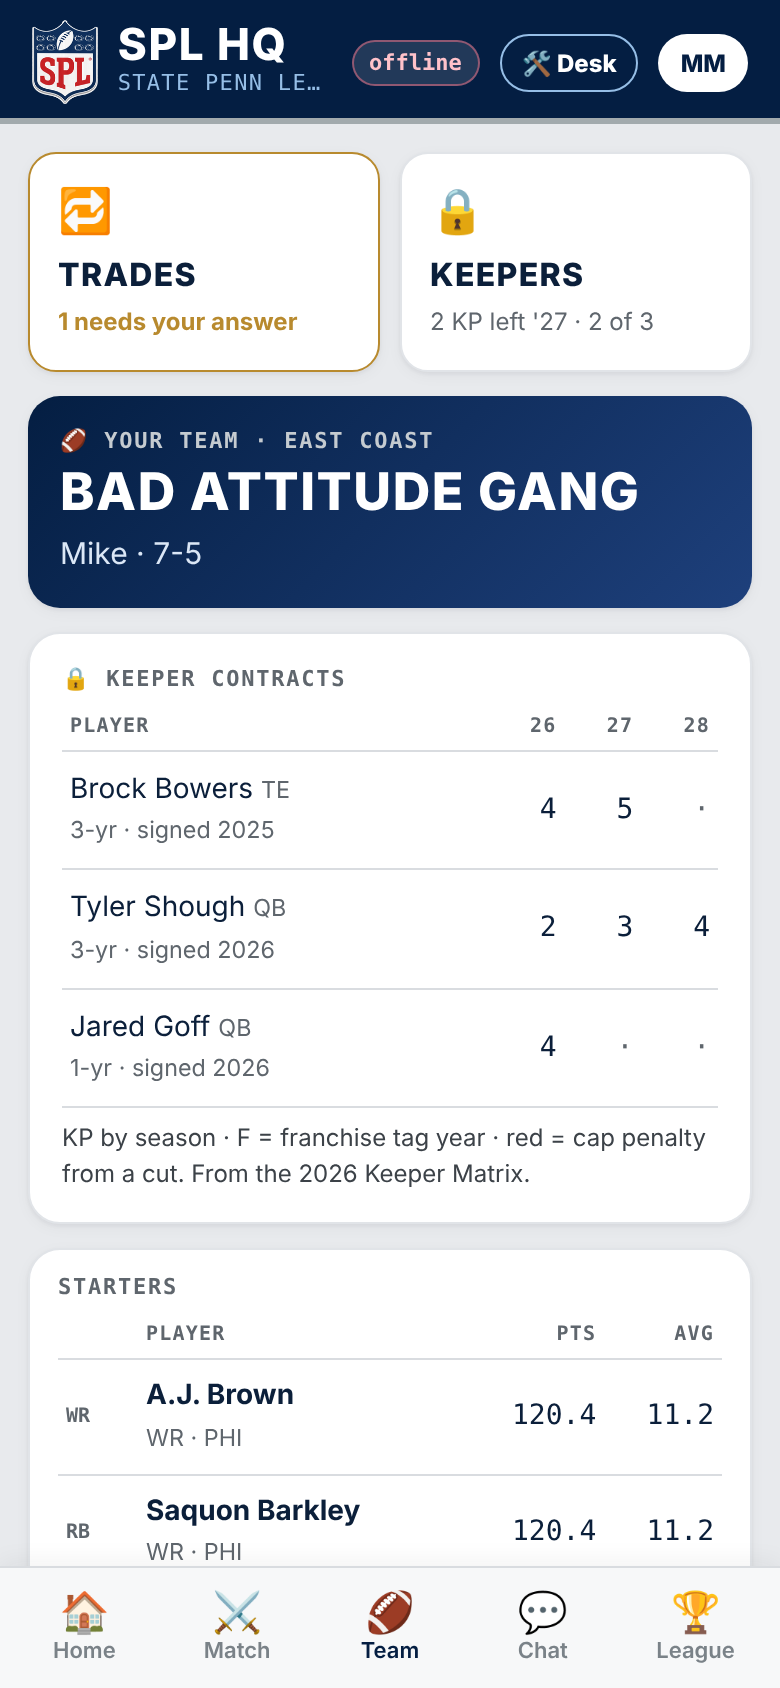
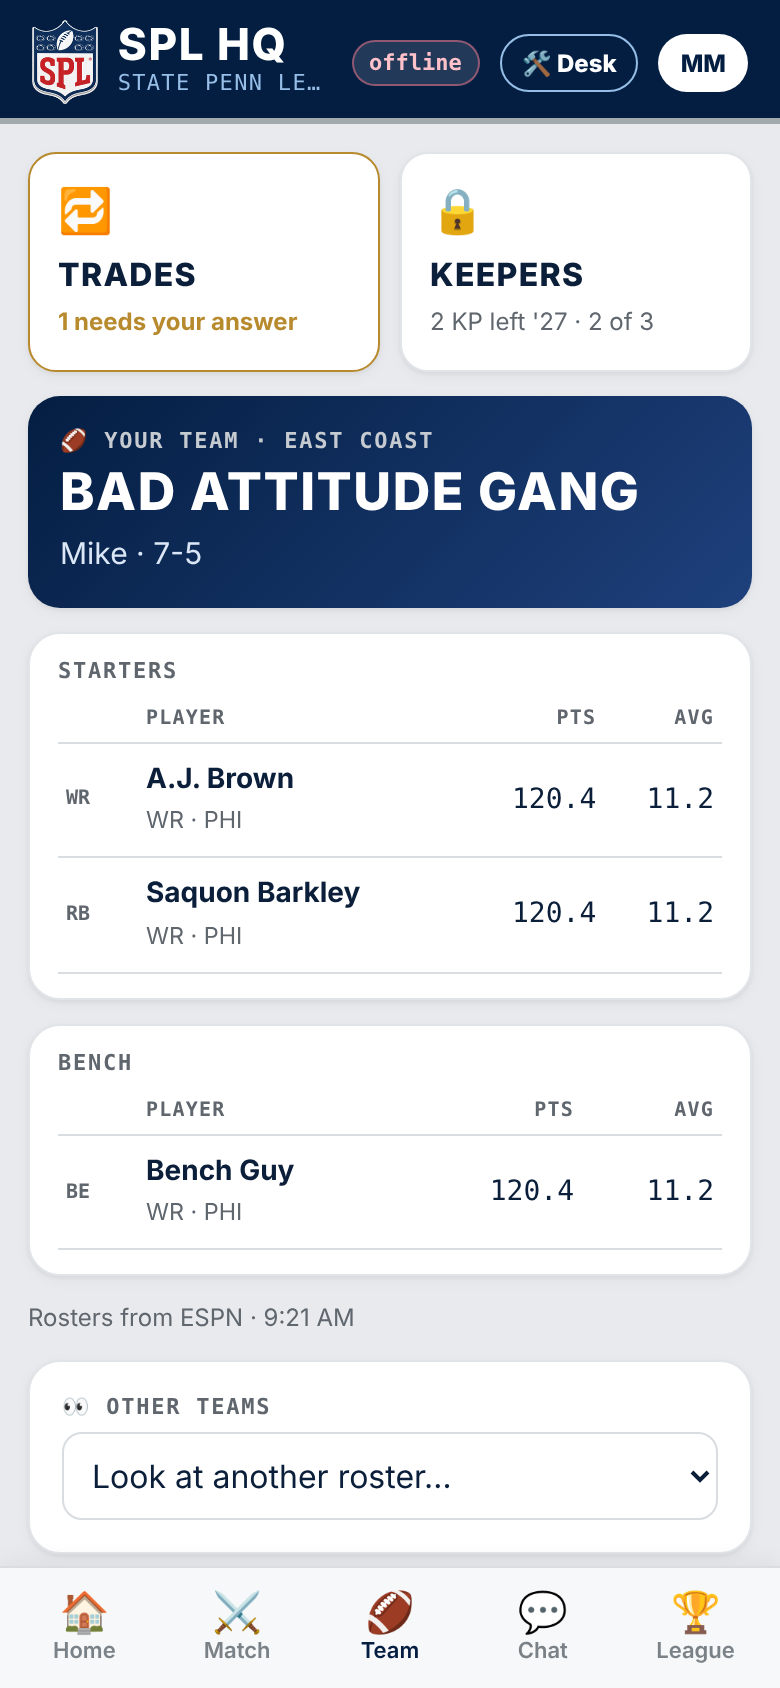
🏈 v0.17.3: Team page drops the Keeper contracts card (Keepers tile owns it)
Claude-Session: https://claude.ai/code/session_015P3LFPu7UnHs8GhGjU4BR4

diff --git a/index.html b/index.html
@@ -378,7 +378,7 @@ nav.tabs button{color:#7A8288} nav.tabs button.on{color:#041E42}
 "use strict";
 // ---- Config. API_URL = the Apps Script web app URL (Deploy → Web app). Public by design: it's not a secret.
 var API_URL = "https://script.google.com/macros/s/AKfycbyGjG8LNEpCBceV5DulbfyMGLk7_NnW_W8q_y0sq47-5LEbE9dOu9Rp3rSVK9YEmD_IRw/exec";
-var APP_VERSION = "0.17.2";
+var APP_VERSION = "0.17.3";
 
 // ---- Owners (from data/SPL_Owner_Registry.csv; names + teams only, no contact info ever).
 var OWNERS = [
@@ -807,16 +807,6 @@ SCREENS.team.after = function (arg) {
     var cs = contractsOf(id), kept = {}; cs.forEach(function (c) { if (c.status === "active") kept[c.player.toLowerCase()] = c; });
     var html = '<div class="card' + (id === ME.owner ? " lead" : "") + '"><div class="eyebrow">' + (id === ME.owner ? "🏈 Your team" : "🏈 " + esc(o.name) + "'s team") + ' · ' + esc((t && t.div) || "") + '</div>' +
       '<h2 style="margin:0">' + esc(t ? t.team : o.team) + '</h2><p>' + esc(o.full || o.name || "") + (t ? ' · ' + esc(t.rec) : '') + '</p></div>';
-    if (cs.length) {
-      var yrs = ["2026", "2027", "2028"];
-      html += '<div class="card"><div class="eyebrow">🔒 Keeper contracts</div><table><tr><th>Player</th>' + yrs.map(function (y) { return '<th class="n">' + y.slice(2) + '</th>'; }).join("") + '</tr>' +
-        cs.map(function (c) {
-          var cut = c.status === "cut";
-          return '<tr><td>' + esc(c.player) + ' <small class="muted">' + esc(c.pos) + '</small>' + (c.tag ? ' <span class="tag">TAG</span>' : '') + (cut ? ' <span class="tag" style="color:var(--coral)">CUT</span>' : '') +
-            '<br><small class="muted">' + c.term + '-yr · signed ' + c.signed + '</small></td>' +
-            yrs.map(function (y) { var v = cut ? c.pen[y] : c.kp[y]; return '<td class="n' + (cut && v != null ? " coral" : "") + '">' + (v == null ? '<span class="muted">·</span>' : v === "F" ? '<span class="gold">F</span>' : v) + '</td>'; }).join("") + '</tr>';
-        }).join("") + '</table><p class="muted" style="font-size:12px">KP by season · F = franchise tag year · red = cap penalty from a cut. From the 2026 Keeper Matrix.</p></div>';
-    }
     if (!t) { $("#tm").innerHTML = html + '<div class="card"><p class="muted">Couldn\'t match this team on ESPN.</p></div>'; return; }
     var group = function (label, list) {
       if (!list.length) return "";

diff --git a/sw.js b/sw.js
@@ -1,6 +1,6 @@
 // SPL HQ service worker: cached copy first for the app's own files (refreshed in the background), network when there is no copy.
 // Never caches the backend (script.google.com): live data is always fetched fresh.
-var CACHE = "splhq-v33";
+var CACHE = "splhq-v34";
 self.addEventListener("install", function (e) { self.skipWaiting(); });
 // Drop every older splhq-v* cache (WS7: phones were keeping one full copy of the app per version, 27 and counting).
 self.addEventListener("activate", function (e) {

diff --git a/docs/STATUS.md b/docs/STATUS.md
@@ -1,6 +1,6 @@
 # SPL HQ — Status
 
-_Read first. Newest on top._ **Last updated:** 2026-11-26 by Claude (chat, Team tab overhaul v0.17.2)
+_Read first. Newest on top._ **Last updated:** 2026-11-26 by Claude (chat, Team tab overhaul v0.17.2–.3)
 
 ## Now
 - **WS7 ops ready-check (v0.16, backend v0.12.0):** audit in `docs/OPS_AUDIT_2026-11-26.md`. Big find: **GitHub's schedule has never fired on this repo**, so the backend's new hourly watchdog now runs late robots itself. **Mike, three one-time steps (runbook):** ① Script property `GH_TOKEN` (fine-grained, this repo, Actions read+write, 1 yr) ② Apps Script ⏰ trigger on `tick`, hourly ③ UptimeRobot on `?action=health`. Then Ops desk → 🤖 Robots & watchdog should read ✅ all good. ESPN writes are ON (test league): off after the demo.
@@ -19,6 +19,7 @@ Settled by Mike (retired, answers kept on the Ops desk): keeper_travels, pick_ye
 One more question cleanup before the list goes to Joe.
 
 ## Recently shipped
+- 2026-11-26 · v0.17.3 · 🏈 Team page: **Keeper contracts card removed** (Mike: the 🔒 Keepers tile is where owners go for keeper info). Roster rows keep their small 🔒 KP tag. SW `splhq-v34`.
 - 2026-11-26 · v0.17.2 · 🏈 **Team tab overhaul** (Mike: drop the owner pill row, trading + keepers up top). Your team opens with two big tiles:
   🔁 **Trades** (gold "N need your answer" when an offer waits, else open offers / picks) and 🔒 **Keepers** (Signing Day: declare / ✅ declared,
   else your current plan's KP left + keepers of 3). The owner pill row is gone; other rosters sit behind a 👀 **Other teams** picker at the bottom.
